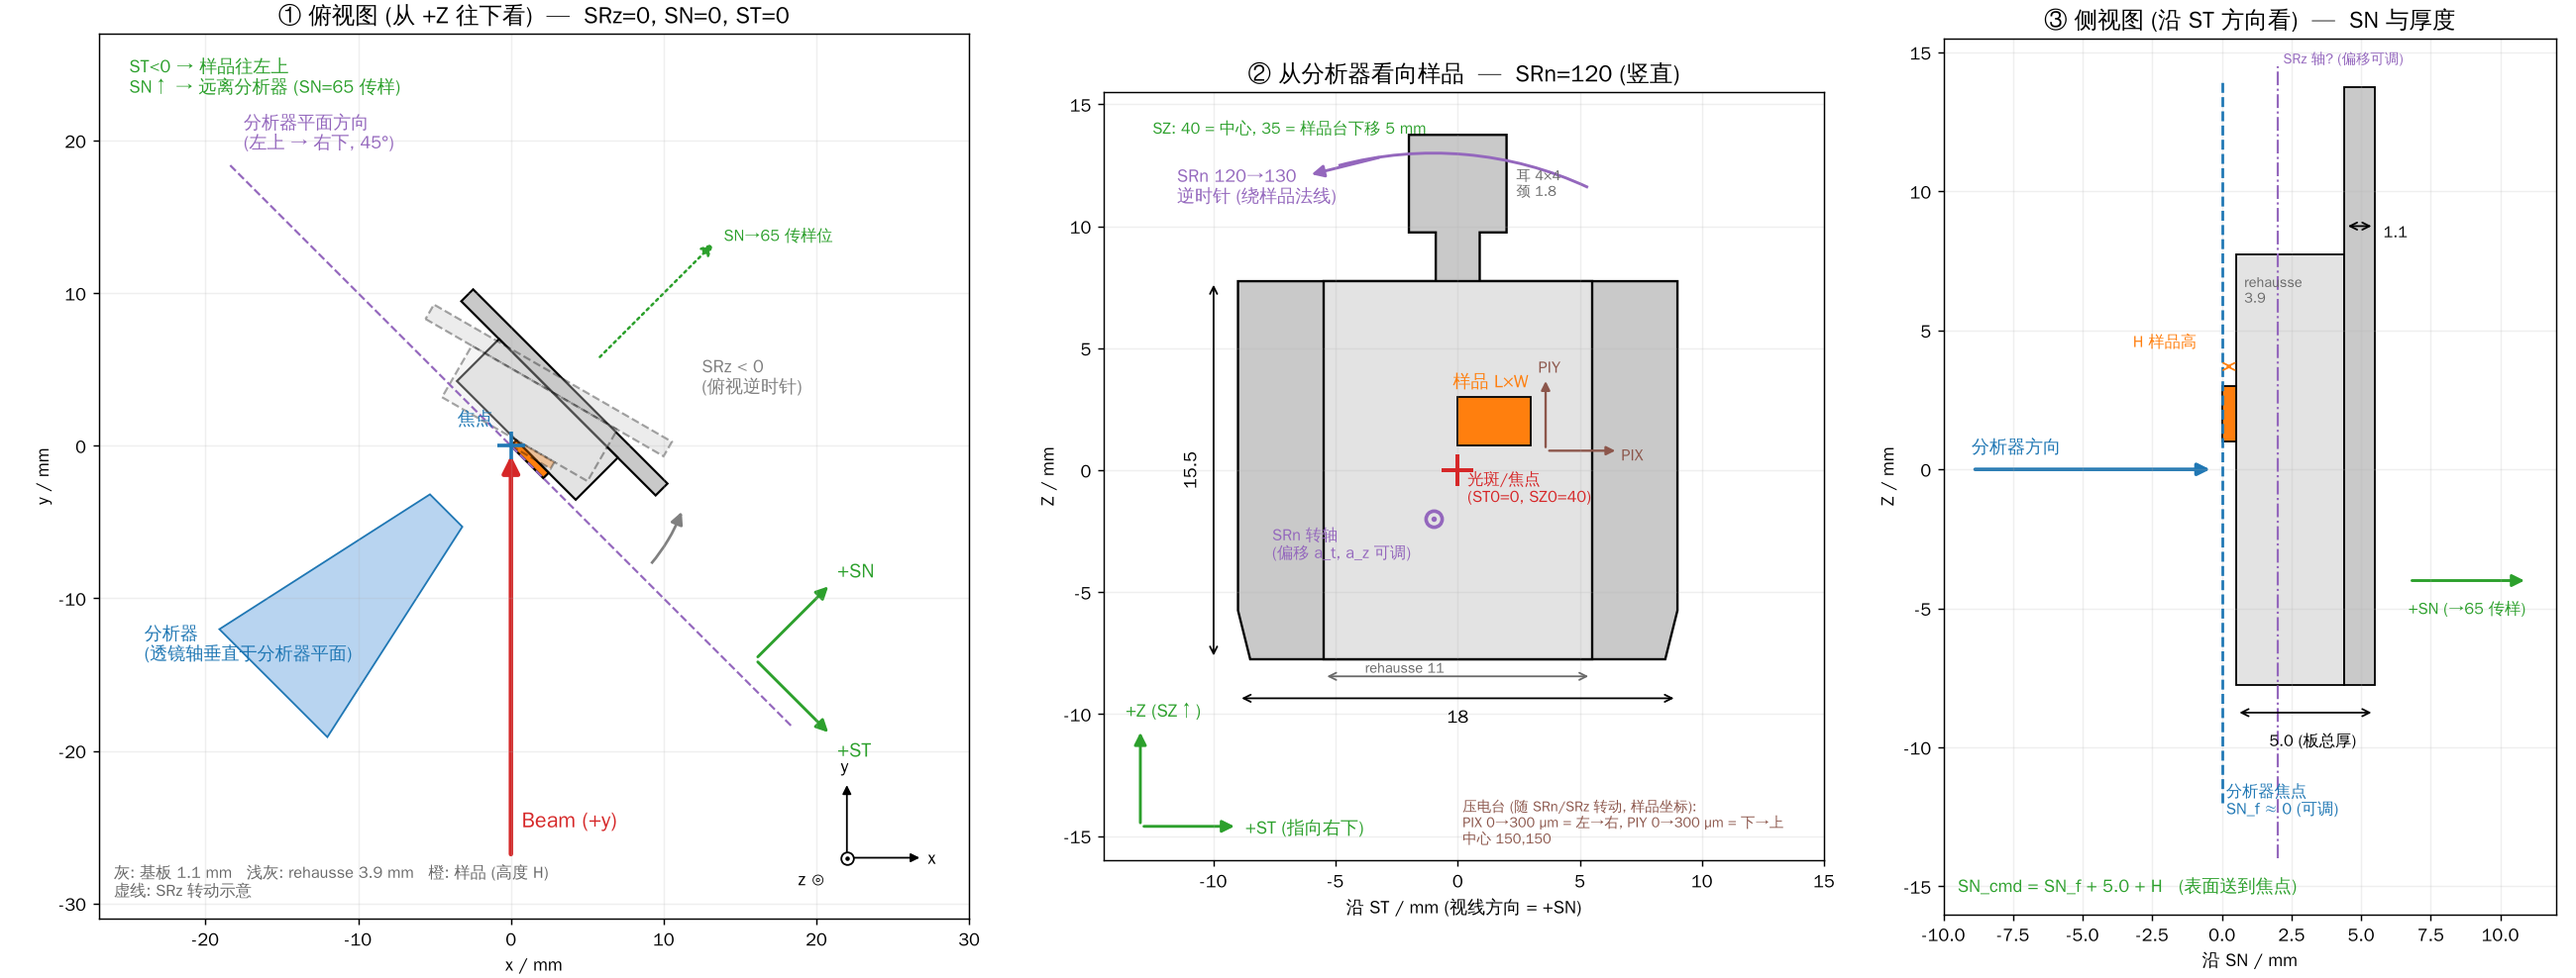
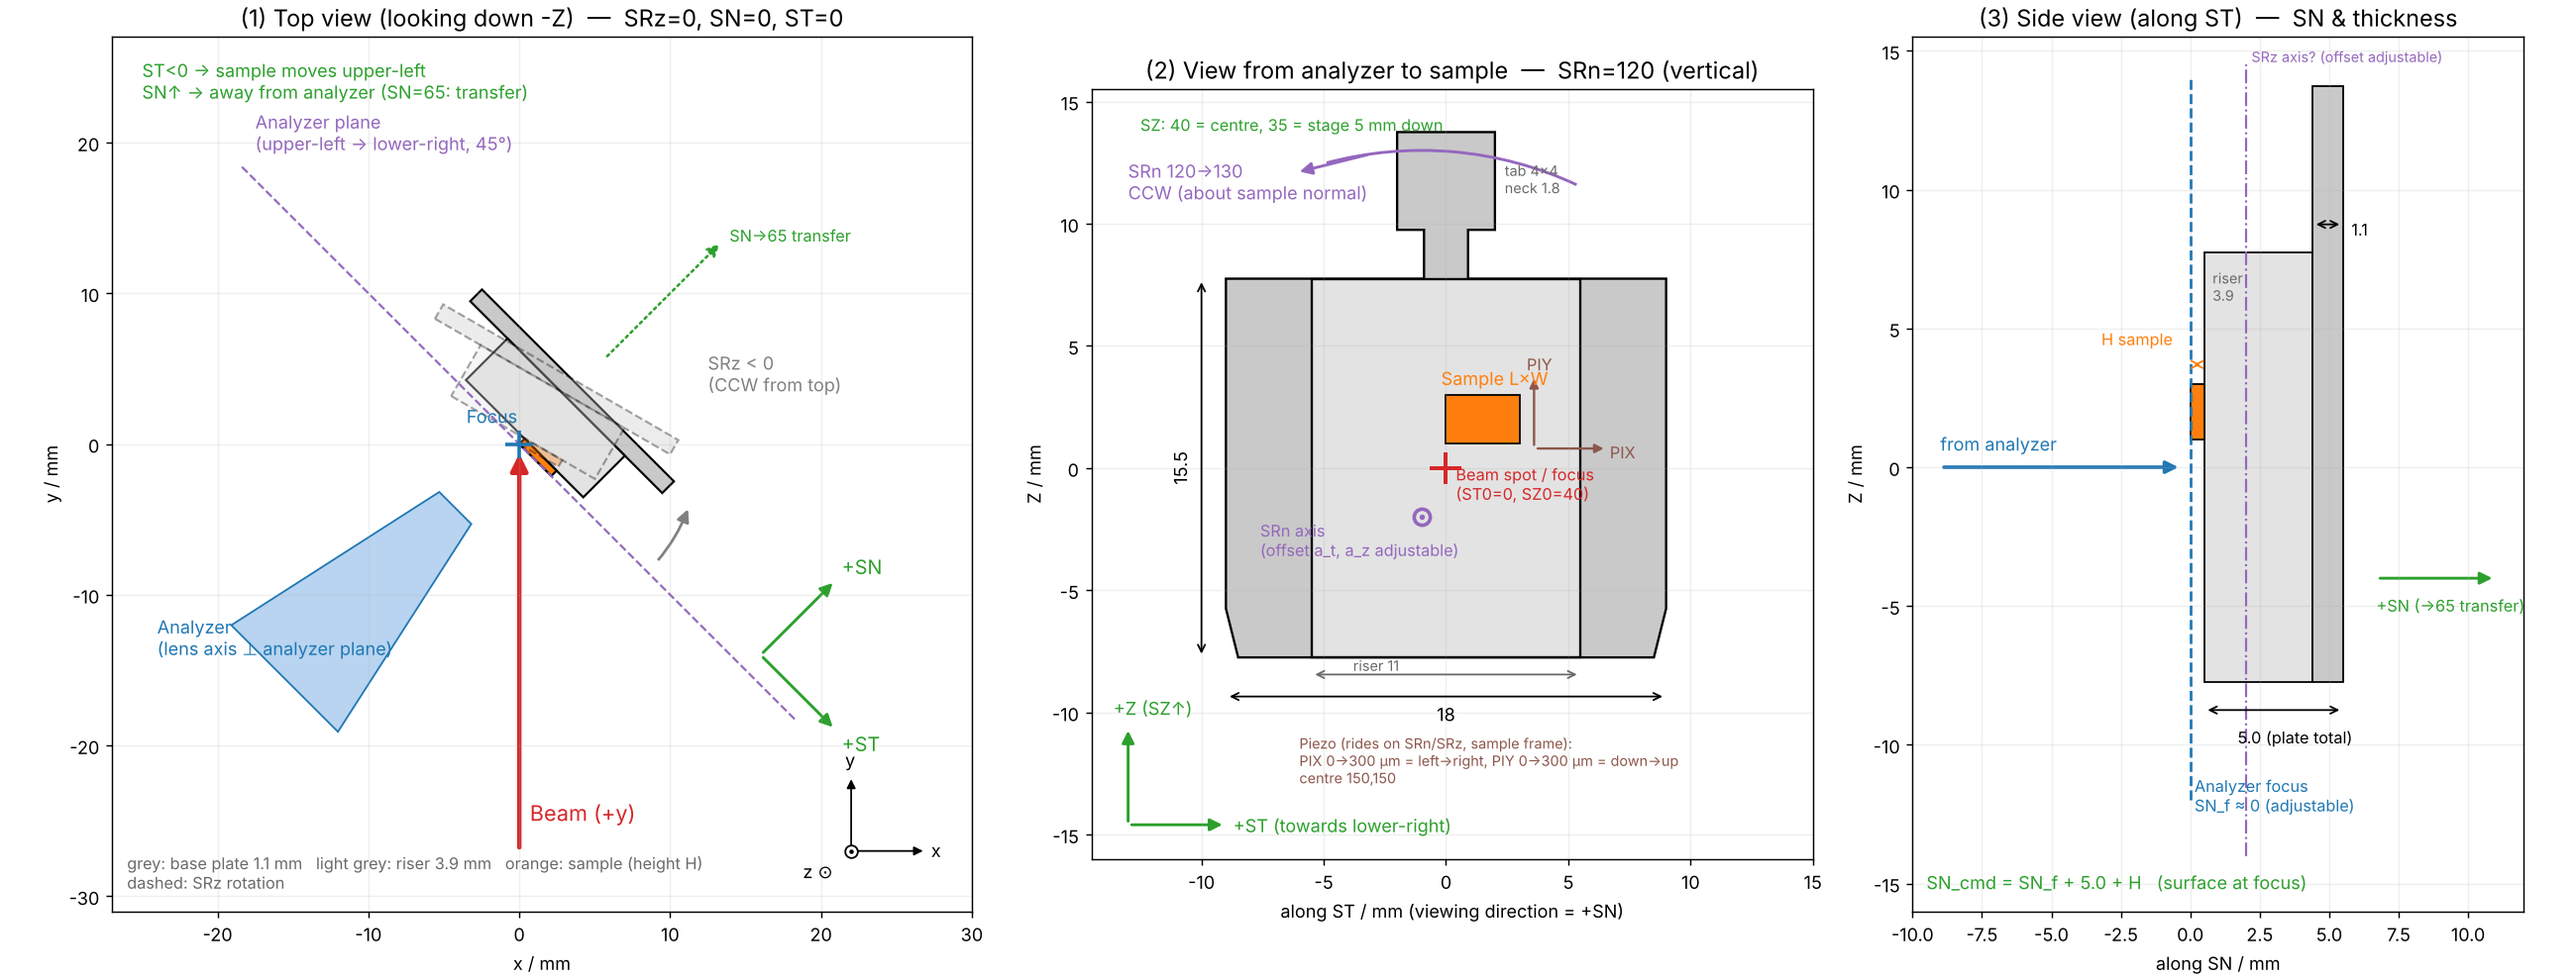
Geometry sketch v2: switch all labels to English
Claude-Session: https://claude.ai/code/session_01P4iNnKkabFvX7H8DN7Tvjt

diff --git a/docs/draw_geometry.py b/docs/draw_geometry.py
@@ -4,7 +4,6 @@ matplotlib.use("Agg")
 import matplotlib.pyplot as plt
 from matplotlib.patches import Polygon, FancyArrowPatch, Arc, Rectangle
 
-plt.rcParams["font.family"] = ["WenQuanYi Zen Hei"]
 plt.rcParams["axes.unicode_minus"] = False
 
 # ---- Plate (Plaquette Ta avec rehausse), mm ----
@@ -43,12 +42,12 @@ gs = fig.add_gridspec(1, 3, width_ratios=[1.25, 1, 0.85])
 
 # ================= 1. TOP VIEW =================
 ax = fig.add_subplot(gs[0])
-ax.set_title("① 俯视图 (从 +Z 往下看)  —  SRz=0, SN=0, ST=0", fontsize=13)
+ax.set_title("(1) Top view (looking down -Z)  —  SRz=0, SN=0, ST=0", fontsize=13)
 
 # analyzer plane (focal reference)
 L = 26
 ax.plot([-L / np.sqrt(2), L / np.sqrt(2)], [L / np.sqrt(2), -L / np.sqrt(2)], "--", color="tab:purple", lw=1.2)
-ax.text(-17.5, 19.5, "分析器平面方向\n(左上 → 右下, 45°)", color="tab:purple", fontsize=10)
+ax.text(-17.5, 19.5, "Analyzer plane\n(upper-left → lower-right, 45°)", color="tab:purple", fontsize=10)
 
 def draw_plate_top(rot, alpha=1.0, ls="-"):
     kw = dict(closed=True, alpha=alpha, ls=ls, lw=1.2)
@@ -64,7 +63,7 @@ def draw_plate_top(rot, alpha=1.0, ls="-"):
 
 draw_plate_top(0)
 draw_plate_top(15, alpha=0.35, ls="--")
-ax.text(12.5, 3.5, "SRz < 0\n(俯视逆时针)", color="gray", fontsize=10)
+ax.text(12.5, 3.5, "SRz < 0\n(CCW from top)", color="gray", fontsize=10)
 ax.add_patch(Arc((0, 0), 24, 24, theta1=-40, theta2=-22, color="gray", lw=1.5))
 arrow(ax, (12 * np.cos(np.radians(-25)), 12 * np.sin(np.radians(-25))),
       (12 * np.cos(np.radians(-20)), 12 * np.sin(np.radians(-20))), color="gray")
@@ -80,9 +79,9 @@ base_c = d * 22
 perp = u_t
 ax.add_patch(Polygon([tip + perp * 1.5, tip - perp * 1.5, base_c - perp * 5, base_c + perp * 5],
                      closed=True, fc="#b8d4f0", ec="tab:blue"))
-ax.text(-24, -14, "分析器\n(透镜轴垂直于分析器平面)", color="tab:blue", fontsize=10)
+ax.text(-24, -14, "Analyzer\n(lens axis ⊥ analyzer plane)", color="tab:blue", fontsize=10)
 ax.plot(0, 0, "+", color="tab:blue", ms=16, mew=2)
-ax.text(-3.5, 1.4, "焦点", color="tab:blue", fontsize=10)
+ax.text(-3.5, 1.4, "Focus", color="tab:blue", fontsize=10)
 
 # motor axes
 o = np.array([16, -14])
@@ -90,9 +89,9 @@ arrow(ax, o, o + u_t * 7, color="tab:green")
 arrow(ax, o, o + u_n * 7, color="tab:green")
 ax.text(*(o + u_t * 7.6 + [0, -1]), "+ST", color="tab:green", fontsize=11)
 ax.text(*(o + u_n * 7.6), "+SN", color="tab:green", fontsize=11)
-ax.text(-25, 25.5, "ST<0 → 样品往左上\nSN↑ → 远离分析器 (SN=65 传样)", color="tab:green", fontsize=10, va="top")
+ax.text(-25, 25.5, "ST<0 → sample moves upper-left\nSN↑ → away from analyzer (SN=65: transfer)", color="tab:green", fontsize=10, va="top")
 arrow(ax, u_n * 8, u_n * 19, color="tab:green", ls=":", lw=1.4)
-ax.text(*(u_n * 19 + [0.5, 0]), "SN→65 传样位", color="tab:green", fontsize=9)
+ax.text(*(u_n * 19 + [0.5, 0]), "SN→65 transfer", color="tab:green", fontsize=9)
 
 # lab axes
 lo = np.array([22, -27])
@@ -104,7 +103,7 @@ ax.plot(*lo, "o", mfc="w", mec="k", ms=7)
 ax.plot(*lo, ".", color="k", ms=3)
 ax.text(lo[0] - 3.2, lo[1] - 1.8, "z ⊙", fontsize=10)
 
-ax.text(-26, -29.5, "灰: 基板 1.1 mm   浅灰: rehausse 3.9 mm   橙: 样品 (高度 H)\n虚线: SRz 转动示意",
+ax.text(-26, -29.5, "grey: base plate 1.1 mm   light grey: riser 3.9 mm   orange: sample (height H)\ndashed: SRz rotation",
         fontsize=9, color="dimgray")
 ax.set_xlim(-27, 30)
 ax.set_ylim(-31, 27)
@@ -115,7 +114,7 @@ ax.set_ylabel("y / mm")
 
 # ================= 2. FRONT VIEW (from analyzer) =================
 ax = fig.add_subplot(gs[1])
-ax.set_title("② 从分析器看向样品  —  SRn=120 (竖直)", fontsize=13)
+ax.set_title("(2) View from analyzer to sample  —  SRn=120 (vertical)", fontsize=13)
 w, h = W_PLATE / 2, H_PLATE / 2
 body = [(-w, h), (-w, -h + CH_H), (-w + CH_W, -h), (w - CH_W, -h), (w, -h + CH_H), (w, h),
         (NECK_W / 2, h), (NECK_W / 2, h + NECK_H), (TAB_W / 2, h + NECK_H), (TAB_W / 2, h + NECK_H + TAB_H),
@@ -123,29 +122,29 @@ body = [(-w, h), (-w, -h + CH_H), (-w + CH_W, -h), (w - CH_W, -h), (w, -h + CH_H
 ax.add_patch(Polygon(body, closed=True, fc="#c9c9c9", ec="k", lw=1.3))
 ax.add_patch(Rectangle((-W_RISER / 2, -h), W_RISER, H_PLATE, fc="#e3e3e3", ec="k", lw=1.3))
 ax.add_patch(Rectangle((S_OFF[0] - S_L / 2, S_OFF[1] - S_W / 2), S_L, S_W, fc="tab:orange", ec="k"))
-ax.text(S_OFF[0] - S_L / 2 - 0.2, S_OFF[1] + S_W / 2 + 0.4, "样品 L×W", fontsize=10, color="tab:orange")
+ax.text(S_OFF[0] - S_L / 2 - 0.2, S_OFF[1] + S_W / 2 + 0.4, "Sample L×W", fontsize=10, color="tab:orange")
 # beam spot at (ST0, SZ0)
 ax.plot(0, 0, "+", color="tab:red", ms=18, mew=2.2)
-ax.text(0.4, -1.3, "光斑/焦点\n(ST0=0, SZ0=40)", color="tab:red", fontsize=9)
+ax.text(0.4, -1.3, "Beam spot / focus\n(ST0=0, SZ0=40)", color="tab:red", fontsize=9)
 # dims
 ax.annotate("", (-w, -h - 1.6), (w, -h - 1.6), arrowprops=dict(arrowstyle="<->"))
 ax.text(0, -h - 2.6, "18", ha="center")
 ax.annotate("", (-W_RISER / 2, -h - 0.7), (W_RISER / 2, -h - 0.7), arrowprops=dict(arrowstyle="<->", color="dimgray"))
-ax.text(-3.8, -h - 0.55, "rehausse 11", fontsize=8, color="dimgray")
+ax.text(-3.8, -h - 0.55, "riser 11", fontsize=8, color="dimgray")
 ax.annotate("", (-w - 1, -h), (-w - 1, h), arrowprops=dict(arrowstyle="<->"))
 ax.text(-w - 2.3, 0, "15.5", rotation=90, va="center")
-ax.text(TAB_W / 2 + 0.4, h + NECK_H + 1.5, "耳 4×4\n颈 1.8", fontsize=8, color="dimgray")
+ax.text(TAB_W / 2 + 0.4, h + NECK_H + 1.5, "tab 4×4\nneck 1.8", fontsize=8, color="dimgray")
 # axes
 o = np.array([-13.0, -14.6])
 arrow(ax, o, o + [4, 0], color="tab:green")
 arrow(ax, o, o + [0, 4], color="tab:green")
-ax.text(o[0] + 4.3, o[1] - 0.3, "+ST (指向右下)", color="tab:green", fontsize=10)
+ax.text(o[0] + 4.3, o[1] - 0.3, "+ST (towards lower-right)", color="tab:green", fontsize=10)
 ax.text(o[0] - 0.6, o[1] + 4.5, "+Z (SZ↑)", color="tab:green", fontsize=10)
-ax.text(-12.5, 13.8, "SZ: 40 = 中心, 35 = 样品台下移 5 mm", color="tab:green", fontsize=9)
+ax.text(-12.5, 13.8, "SZ: 40 = centre, 35 = stage 5 mm down", color="tab:green", fontsize=9)
 # SRn rotation (axis offset from plate centre / beam spot)
 ax.plot(*SRN_AXIS, "o", mfc="none", mec="tab:purple", ms=9, mew=2)
 ax.plot(*SRN_AXIS, ".", color="tab:purple", ms=4)
-ax.text(SRN_AXIS[0] - 6.6, SRN_AXIS[1] - 1.6, "SRn 转轴\n(偏移 a_t, a_z 可调)", color="tab:purple", fontsize=9)
+ax.text(SRN_AXIS[0] - 6.6, SRN_AXIS[1] - 1.6, "SRn axis\n(offset a_t, a_z adjustable)", color="tab:purple", fontsize=9)
 cx, cz = SRN_AXIS
 ax.add_patch(Arc((cx, cz), 30, 30, theta1=65, theta2=105, color="tab:purple", lw=1.6))
 arrow(ax, (cx + 15 * np.cos(np.radians(98)), cz + 15 * np.sin(np.radians(98))),
@@ -156,44 +155,44 @@ arrow(ax, po, po + [3, 0], color="tab:brown", ms=10, lw=1.3)
 arrow(ax, po, po + [0, 3], color="tab:brown", ms=10, lw=1.3)
 ax.text(po[0] + 3.1, po[1] - 0.4, "PIX", color="tab:brown", fontsize=9)
 ax.text(po[0] - 0.3, po[1] + 3.2, "PIY", color="tab:brown", fontsize=9)
-ax.text(0.2, -15.3, "压电台 (随 SRn/SRz 转动, 样品坐标):\nPIX 0→300 µm = 左→右, PIY 0→300 µm = 下→上\n中心 150,150",
+ax.text(-6.0, -12.9, "Piezo (rides on SRn/SRz, sample frame):\nPIX 0→300 µm = left→right, PIY 0→300 µm = down→up\ncentre 150,150",
         color="tab:brown", fontsize=8)
-ax.text(-11.5, 11.0, "SRn 120→130\n逆时针 (绕样品法线)", color="tab:purple", fontsize=10)
+ax.text(-13.0, 11.0, "SRn 120→130\nCCW (about sample normal)", color="tab:purple", fontsize=10)
 ax.set_xlim(-14.5, 15)
 ax.set_ylim(-16, 15.5)
 ax.set_aspect("equal")
 ax.grid(alpha=0.2)
-ax.set_xlabel("沿 ST / mm (视线方向 = +SN)")
+ax.set_xlabel("along ST / mm (viewing direction = +SN)")
 ax.set_ylabel("Z / mm")
 
 # ================= 3. SIDE VIEW =================
 ax = fig.add_subplot(gs[2])
-ax.set_title("③ 侧视图 (沿 ST 方向看)  —  SN 与厚度", fontsize=13)
+ax.set_title("(3) Side view (along ST)  —  SN & thickness", fontsize=13)
 # n axis: 0 = sample surface = focus; + away from analyzer
 ax.add_patch(Rectangle((S_H, -h), T_RISER, H_PLATE, fc="#e3e3e3", ec="k"))
 ax.add_patch(Rectangle((S_H + T_RISER, -h), T_BASE, H_PLATE + NECK_H + TAB_H, fc="#c9c9c9", ec="k"))
 ax.add_patch(Rectangle((0, S_OFF[1] - S_W / 2), S_H, S_W, fc="tab:orange", ec="k"))
 ax.plot([0, 0], [-12, 14], "--", color="tab:blue")
-ax.text(0.15, -12.4, "分析器焦点\nSN_f ≈ 0 (可调)", color="tab:blue", fontsize=9)
+ax.text(0.15, -12.4, "Analyzer focus\nSN_f ≈ 0 (adjustable)", color="tab:blue", fontsize=9)
 ax.plot([SRZ_AXIS_N, SRZ_AXIS_N], [-14, 14.5], "-.", color="tab:purple", lw=1.2)
-ax.text(SRZ_AXIS_N + 0.2, 14.6, "SRz 轴? (偏移可调)", color="tab:purple", fontsize=8)
+ax.text(SRZ_AXIS_N + 0.2, 14.6, "SRz axis? (offset adjustable)", color="tab:purple", fontsize=8)
 arrow(ax, (-9, 0), (-0.3, 0), color="tab:blue", lw=2)
-ax.text(-9, 0.6, "分析器方向", color="tab:blue", fontsize=10)
+ax.text(-9, 0.6, "from analyzer", color="tab:blue", fontsize=10)
 ax.annotate("", (S_H, -h - 1), (S_H + T_TOTAL, -h - 1), arrowprops=dict(arrowstyle="<->"))
-ax.text(S_H + 1.2, -h - 2.2, "5.0 (板总厚)", fontsize=9)
+ax.text(S_H + 1.2, -h - 2.2, "5.0 (plate total)", fontsize=9)
 ax.annotate("", (S_H + T_RISER, h + 1), (S_H + T_TOTAL, h + 1), arrowprops=dict(arrowstyle="<->"))
 ax.text(S_H + T_TOTAL + 0.3, h + 0.6, "1.1", fontsize=9)
-ax.text(S_H + 0.3, 6.0, "rehausse\n3.9", fontsize=8, color="dimgray")
+ax.text(S_H + 0.3, 6.0, "riser\n3.9", fontsize=8, color="dimgray")
 ax.annotate("", (0, S_OFF[1] + S_W / 2 + 0.7), (S_H, S_OFF[1] + S_W / 2 + 0.7), arrowprops=dict(arrowstyle="<->", color="tab:orange"))
-ax.text(-3.2, S_OFF[1] + S_W / 2 + 1.4, "H 样品高", fontsize=9, color="tab:orange")
+ax.text(-3.2, S_OFF[1] + S_W / 2 + 1.4, "H sample", fontsize=9, color="tab:orange")
 arrow(ax, (S_H + T_TOTAL + 1.2, -4), (S_H + T_TOTAL + 5.5, -4), color="tab:green")
-ax.text(S_H + T_TOTAL + 1.2, -5.2, "+SN (→65 传样)", fontsize=9, color="tab:green")
-ax.text(-9.5, -15.2, "SN_cmd = SN_f + 5.0 + H   (表面送到焦点)", fontsize=10, color="tab:green")
+ax.text(S_H + T_TOTAL + 1.2, -5.2, "+SN (→65 transfer)", fontsize=9, color="tab:green")
+ax.text(-9.5, -15.2, "SN_cmd = SN_f + 5.0 + H   (surface at focus)", fontsize=10, color="tab:green")
 ax.set_xlim(-10, 12)
 ax.set_ylim(-16, 15.5)
 ax.set_aspect("equal")
 ax.grid(alpha=0.2)
-ax.set_xlabel("沿 SN / mm")
+ax.set_xlabel("along SN / mm")
 ax.set_ylabel("Z / mm")
 
 fig.tight_layout()
